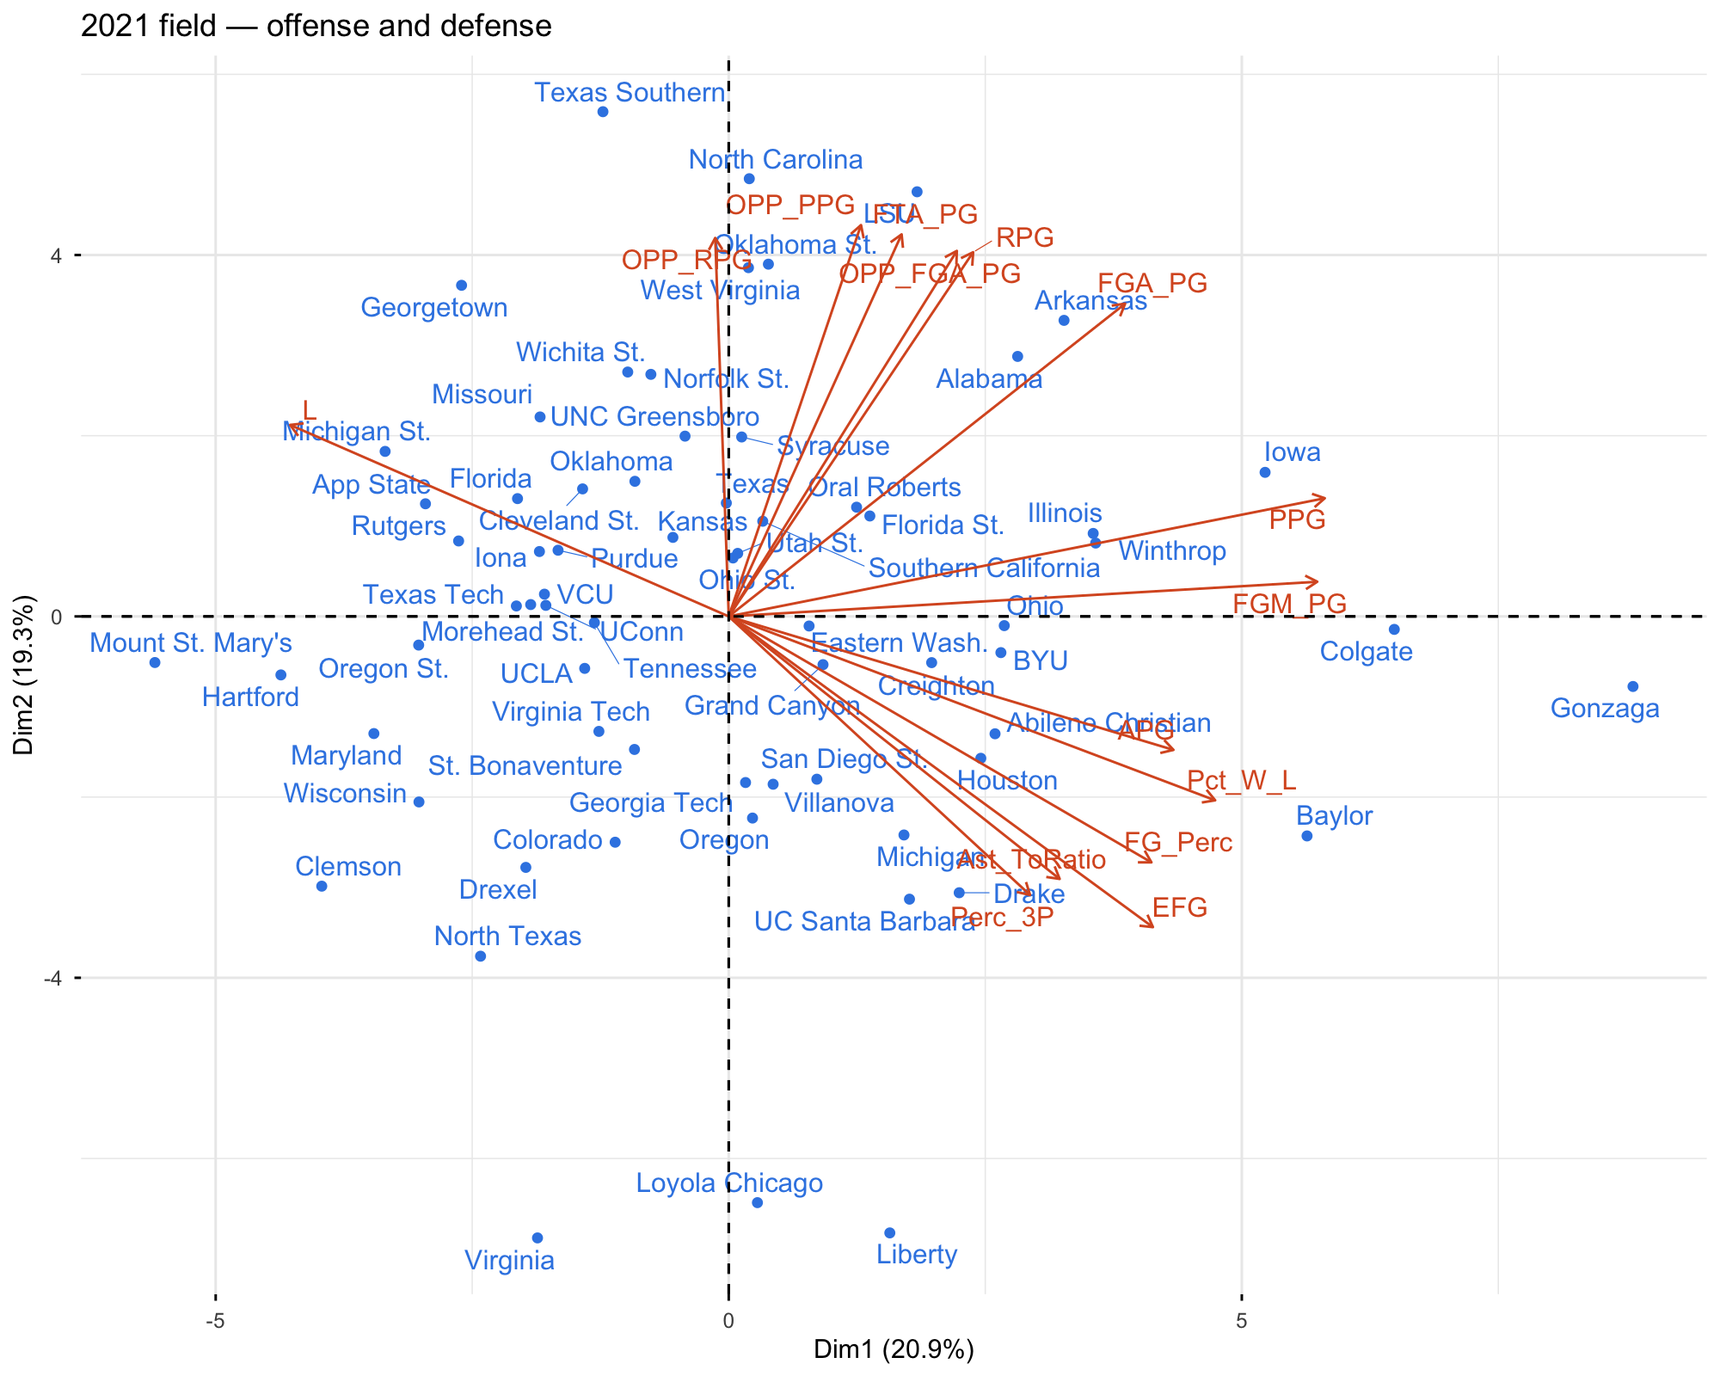
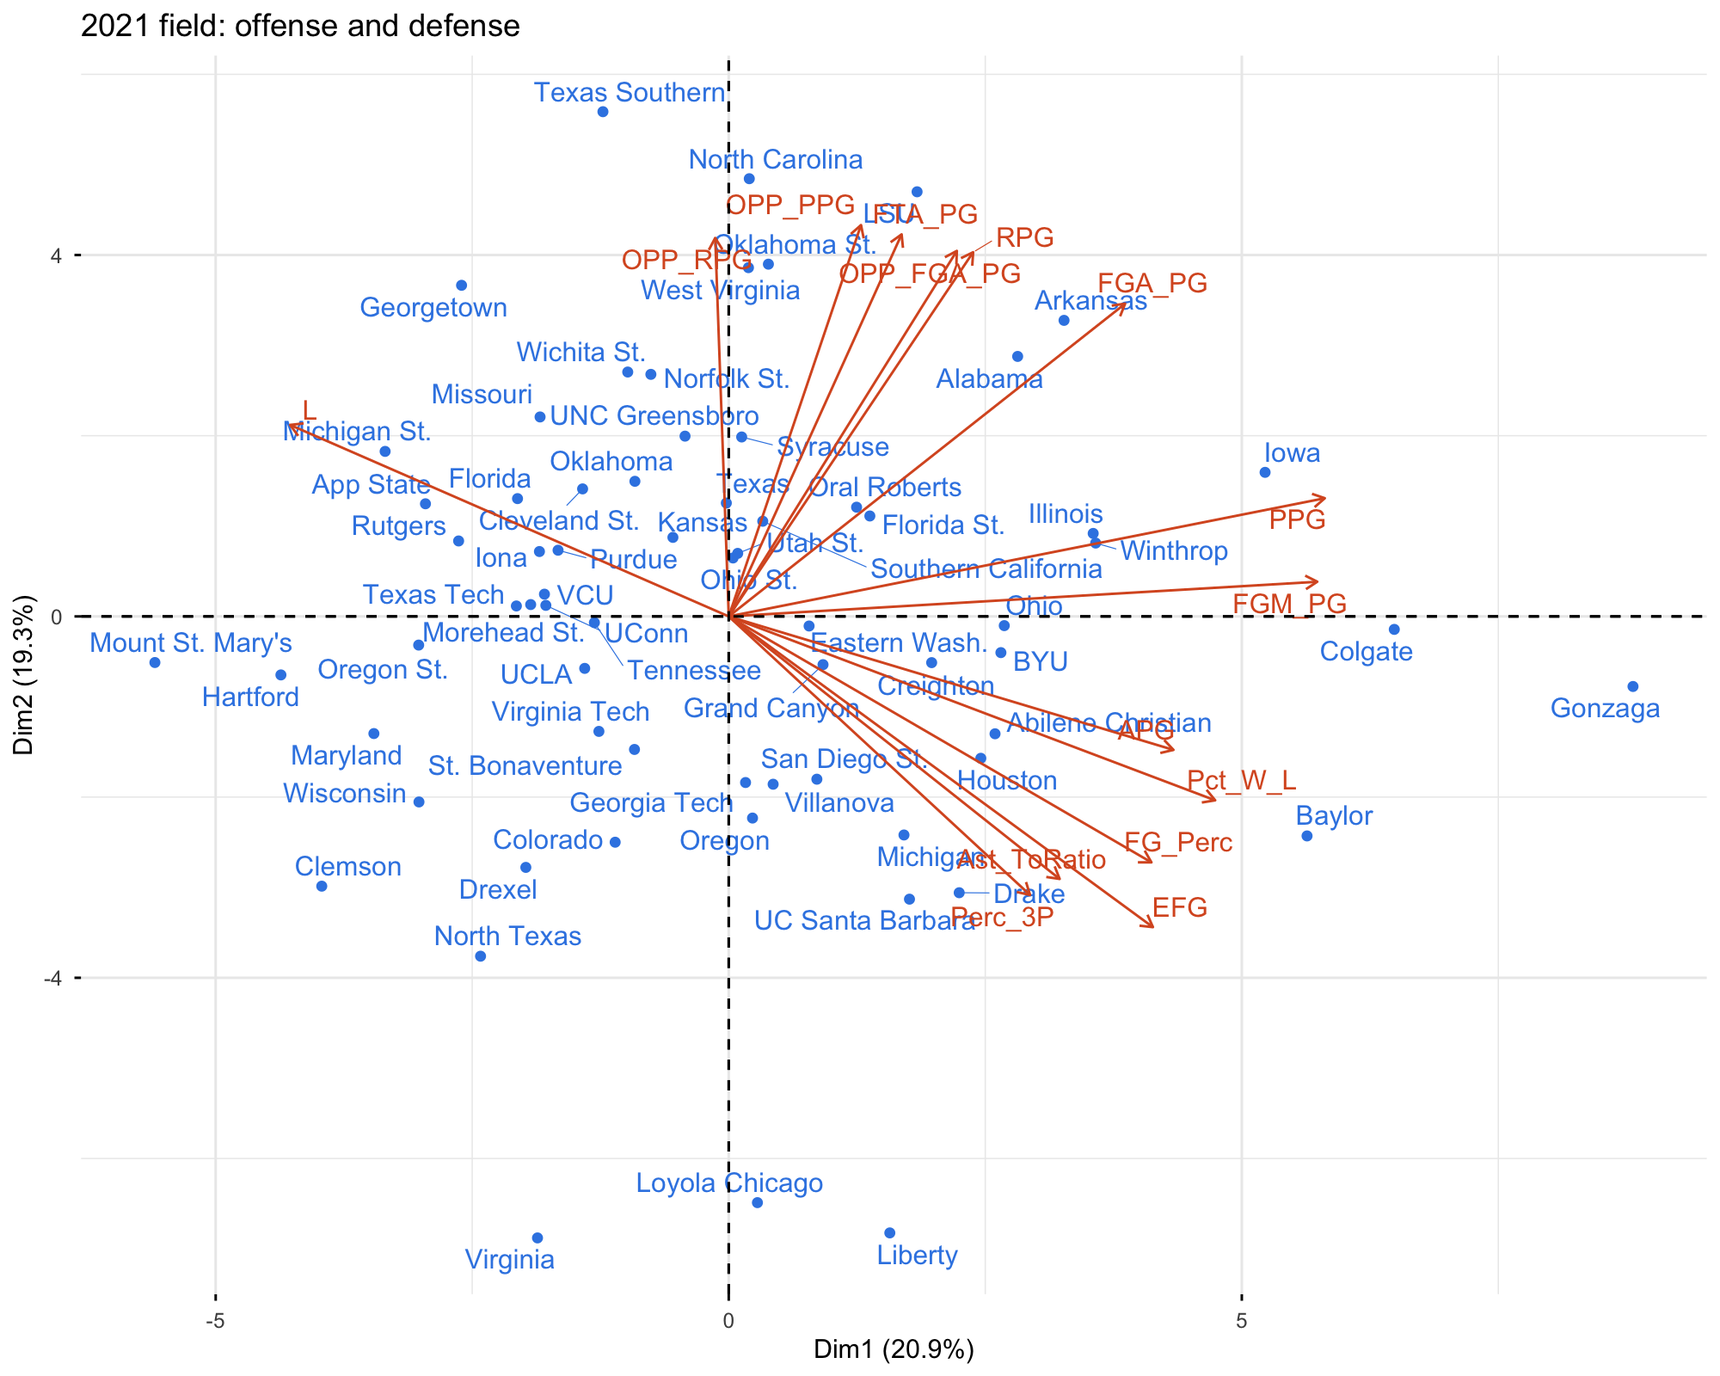
Mise à jour du post-mortem et des analyses PCA pour clarifier les méthodes et les résultats, y compris des corrections de bugs et des améliorations de la documentation.

diff --git a/POST_MORTEM.md b/POST_MORTEM.md
@@ -1,6 +1,6 @@
 # The 2021 Post-Mortem: I Read a Chart With My Eyes and Called It a Model
 
-*This was my first predictive model. 363 lines of R, seventeen spreadsheets, and a scatterplot I squinted at to decide who'd win basketball games. It went 39-27 and picked the wrong champion, but I never actually added that up — I just watched the tournament, enjoyed the hits, and moved on. Five years later I went back, wrote down the rule I'd been applying by eye, and scored every game. Here's what I found, including two bugs and one axis that was never measuring what I thought.*
+*This was my first predictive model. I built it in four days during my first year of a statistics degree, having just started programming in R, at a point where PCA was brand new to me and felt like a superpower. 363 lines, seventeen spreadsheets, and a scatterplot I read by eye. Five years later I went back, wrote the rule down as actual code, and scored it against every game. Here's what I found, including two bugs and one axis that was never measuring what I thought it was.*
 
 ---
 
@@ -22,7 +22,11 @@ My model was nothing but raw per-game averages. It still had the two teams that 
 
 ## The Method, Written Down at Last
 
-The 2021 script ran a PCA over 33 team stats — shooting, rebounds, assists, turnovers, fouls, opponent equivalents, win-loss record — and plotted the field on the first two components. My rule, which existed entirely in my head, was that whoever sat further toward the good corner won.
+The 2021 script ran a PCA over 33 team stats: shooting, rebounds, assists, turnovers, fouls, opponent equivalents, win-loss record. Then it plotted the field on the first two components.
+
+PCA gives you coordinates and no labels, so naming the axes was on me. I did it by finding teams I already understood. Gonzaga sat far out on the first axis, and Gonzaga was the most offense-oriented team in the country. Houston anchored the second, and Houston was a Kelvin Sampson team, which meant defense above everything. Axis one is offense, axis two is defense. Rebuilding it years later, that read holds up remarkably well: Gonzaga finished first of 68 in both points per game and effective field goal percentage, and Houston finished first of 68 in opponent field goal percentage. I anchored on the actual best offense and the actual best defense in the field.
+
+My rule, which existed entirely in my head, was that whoever sat further toward the good corner won.
 
 Written out, it's one line:
 
@@ -30,7 +34,9 @@ Written out, it's one line:
 ODI = PC1 + PC2        (both axes flipped so bigger = better)
 ```
 
-Equal weight on both, because that's what your eye does with a chart. Nothing tuned, nothing calibrated, no backtest. Same model that filled out my bracket.
+Equal weight on both, because that's what your eye does with a chart. Nothing tuned, nothing calibrated, no backtest.
+
+**An important caveat before the numbers.** This rule is a reconstruction, and every score below belongs to the reconstruction rather than to the bracket I actually submitted. That one went up on CBS and it was a blend: the chart, plus a week of reading about these teams, plus who was hot coming into the tournament, plus who was hurt. The analytics were the new thing I wanted to test, not the entire method. What follows is what the rule does on its own, cleanly, against all 66 games.
 
 Run against all 66 games actually played:
 
@@ -45,7 +51,7 @@ Run against all 66 games actually played:
 | Championship | 0 / 1 |
 | **Overall** | **39 / 66 (59.1%)** |
 
-*(66, not 67 — Oregon's opener against VCU was called off when VCU withdrew under COVID protocols.)*
+*(66, not 67. Oregon's opener against VCU was called off when VCU withdrew under COVID protocols.)*
 
 ---
 
@@ -57,7 +63,7 @@ Run against all 66 games actually played:
 | :--- | :--- | :--- | :---: |
 | Champion | Gonzaga, 1st on the board | Baylor | ✗ |
 | Both finalists spotted early | Gonzaga 1st, Baylor 3rd of 68 | Gonzaga vs. Baylor | ✓ |
-| Final Four games | 2 of 2 | — | ✓ |
+| Final Four games | 2 of 2 | both correct | ✓ |
 | Oral Roberts (15) over Ohio State (2) | Called | Oral Roberts 75-72 OT | ✓ |
 | Abilene Christian (14) over Texas (3) | Called | Abilene Christian 53-52 | ✓ |
 | Loyola Chicago (8) over Illinois (1) | Called | Loyola Chicago 71-58 | ✓ |
@@ -74,7 +80,7 @@ Just picking the better seed every time goes **42 of 61**. My model went **36 of
 
 A room full of people with a whiteboard beat my computer by six games.
 
-That's the honest headline, and producing it took writing this document, because in 2021 I never scored the thing. There was no accuracy number for this model until now.
+That's the honest headline for the rule taken on its own. It's also the number that never existed until I wrote this document, because in 2021 the analysis was one input among several and nobody was keeping score of it separately.
 
 ---
 
@@ -82,7 +88,7 @@ That's the honest headline, and producing it took writing this document, because
 
 ### Gonzaga: right about the team, wrong about the trophy
 
-Gonzaga topped my board by a distance — 9.59 to Baylor's 8.07, with the rest of the field well back. That wasn't noise. Their 2021 offense was one of the best in modern college basketball: 61.0% effective field goal percentage, first in the field by three full points.
+Gonzaga topped my board by a distance, 9.59 to Baylor's 8.07, with the rest of the field well back. That wasn't noise. Their 2021 offense was one of the best in modern college basketball: 61.0% effective field goal percentage, first in the field by two and a half points.
 
 They walked into the final 31-0.
 
@@ -90,25 +96,25 @@ My model made them a favourite by 1.52 points of ODI. For scale, it had Gonzaga 
 
 Baylor won by sixteen. It stopped being a game around the eight-minute mark of the first half.
 
-The mistake wasn't liking Gonzaga — everybody liked Gonzaga. The mistake was building something that couldn't say *this one's close*.
+The mistake wasn't liking Gonzaga; everybody liked Gonzaga. The mistake was building something that couldn't say *this one's close*.
 
 ### Oral Roberts: the bug that paid
 
 A 15-seed beats a 2-seed about once every four years. Oral Roberts did it in overtime, then beat Florida, then lost to Arkansas by two in the Sweet 16 and nearly made the Elite Eight.
 
-I called both wins. Not because of any insight — because Oral Roberts scored a pile of points in the Summit League, and my model had never heard of the Summit League.
+I called both wins. Not because of any insight, but because Oral Roberts scored a pile of points in the Summit League and my model had never heard of the Summit League.
 
 That's the mid-major problem in one sentence, and it cuts both ways. My top fifteen included Liberty (13-seed) at second overall, Colgate (14) at fifth, Drake (11) at sixth, UC Santa Barbara (12) at eighth, Abilene Christian (14) at eleventh, Ohio (13) at fourteenth, and Winthrop (12) at fifteenth. Seven of the top fifteen were seeded eleventh or worse.
 
 Illinois, a 1-seed, came in seventeenth.
 
-Ranking a 13-seed second in America isn't a small calibration issue. It's the model announcing that it has no idea who anybody played. Most years that wrecks your bracket. In 2021 — fourteen upsets, mid-majors everywhere — it bought me nine correct upset calls including the two biggest of the first round. The flaw and the highlight reel came from the same place.
+Ranking a 13-seed second in America isn't a small calibration issue. It's the model announcing that it has no idea who anybody played. Most years that wrecks your bracket. In 2021, with fourteen upsets and mid-majors everywhere, it bought me nine correct upset calls including the two biggest of the first round. The flaw and the highlight reel came from the same place.
 
 ### The Michigan-LSU footnote
 
 At the very bottom of the original script, after the analysis ends, sit six orphaned lines pulling shooting numbers for Michigan and LSU.
 
-I assumed for years that was debugging junk. It isn't. Michigan played LSU in the round of 32 on March 22, 2021. That's me the night before a real game, pulling two teams up side by side and comparing them by hand — the exact operation this rebuild turns into a function.
+They look like leftover junk until you check the schedule. Michigan played LSU in the round of 32 on March 22, 2021. Those lines are the process in action: two teams pulled up side by side and compared by hand the night before a real game, which is the exact operation this rebuild turns into a function.
 
 Run properly, the model gives Michigan a 6.99 edge. Michigan won 86-78.
 
@@ -126,7 +132,7 @@ Run properly, the model gives Michigan a 6.99 edge. Michigan won 86-78.
 | Knowing who anybody played | F | A 13-seed finished second in the country. |
 | Reproducibility | F | Nothing saved. No plot, no table, no score. |
 
-On that C: when the ODI edge cleared 4 points, the model went 22 of 29 (75.9%). On genuine coin flips under 1 point it went 5 of 10, which is exactly right. But the 1-to-2 band went 3 of 10 — worse than random. It knew a blowout and it knew a toss-up, and everything between was noise with a number attached.
+On that C: when the ODI edge cleared 4 points, the model went 22 of 29 (75.9%). On genuine coin flips under 1 point it went 5 of 10, which is exactly right. But the 1-to-2 band went 3 of 10, worse than random. It knew a blowout and it knew a toss-up, and everything between was noise with a number attached.
 
 ---
 
@@ -134,37 +140,39 @@ On that C: when the ODI edge cleared 4 points, the model went 22 of 29 (75.9%). 
 
 **The corrplot bug** was cosmetic. The defensive correlation plot handed one matrix five columns and the other four, so the significance stars landed on the wrong cells. R warned me. I didn't read it.
 
-**The effective field goal bug** was not cosmetic. The line computing EFG did arithmetic across two data frames that had been filtered separately and were no longer in the same row order — `merge()` had quietly re-sorted one of them alphabetically. The result: **64 of the 68 teams had another team's three-point total baked into their shooting efficiency.** Mean error 1.5 percentage points, worst case 7.8.
+**The effective field goal bug** was not cosmetic. The line computing EFG did arithmetic across two data frames that had been filtered separately and were no longer in the same row order, because `merge()` had quietly re-sorted one of them alphabetically. The result: **64 of the 68 teams had another team's three-point total baked into their shooting efficiency.** Mean error 1.5 percentage points, worst case 7.8.
 
 Gonzaga's real EFG is 61.0%. My script had them at 65.0%.
 
-That number should have stopped me cold — 65% would have been a program-record, era-defining figure, and one look at the column would have caught it. But I never printed the column. Nothing in that script wrote anything to disk, so nothing was ever reviewed. Every result lived in the RStudio plot pane until I closed the window.
+That number should have stopped me cold. A 65% would have been a program-record, era-defining figure, and one look at the column would have caught it. But I never printed the column. Nothing in that script wrote anything to disk, so nothing was ever reviewed. Every result lived in the RStudio plot pane until I closed the window.
 
 ---
 
 ## What I Didn't Have Yet
 
-For years I've said the missing piece was KenPom and strength of schedule. True — and also the symptom rather than the disease. Rebuilding this and actually checking what the axes contained turned up something better.
+For years I've said the missing piece was KenPom and strength of schedule. That's true, and it's also the symptom rather than the disease. Rebuilding this and actually checking what the axes contained turned up something better.
 
 **PC1 (20.9% of variance) is offense, exactly as advertised.** Correlates with points per game at +0.94, effective field goal percentage at +0.67, win percentage at +0.77. I read that axis correctly.
 
-**PC2 (19.3%) is not defense.** I labelled it defense for five years. It correlates with opponent points per game at +0.70 — which is what fooled me — and with *opponent field goal percentage* at **−0.01**. Zero. It has no relationship whatsoever with whether opponents actually shoot well against you.
+**PC2 (19.3%) is not defense.** I labelled it defense for five years. It correlates with opponent points per game at +0.70, which is what fooled me, and with *opponent field goal percentage* at **−0.01**. Zero. It has no relationship whatsoever with whether opponents actually shoot well against you.
 
-PC2 was measuring tempo. High PC2 means possessions: rebounds at both ends, free throws, shots taken and allowed, and lower efficiency. Low PC2 means a grind. The two most extreme low-PC2 teams in the field are Virginia and Loyola Chicago, which is about as on-the-nose as basketball gets — those were the two most deliberate, defense-first programs in the country that season.
+PC2 was measuring tempo. High PC2 means possessions: rebounds at both ends, free throws, shots taken and allowed, and lower efficiency. Low PC2 means a grind. The two most extreme low-PC2 teams in the field are Virginia and Loyola Chicago, which is about as on-the-nose as basketball gets. Those were the two most deliberate, defense-first programs in the country that season.
+
+And this is why it stayed hidden. Houston, the team I used to name that axis, really was the best defense in the field. Houston was also a Kelvin Sampson team, which meant it played slowly by design. Elite defense and slow tempo in the same team, landing in the same place on the chart. My anchor sat exactly where a defense axis and a tempo axis would both put it, so it could never tell me which one I was looking at. A fast team with a great defense, or a slow team with a bad one, would have blown the interpretation apart immediately.
 
 So the axis was picking up something real. It just wasn't defensive quality; it was pace. Slow teams give up fewer points whether they defend or not.
 
-Actual defensive quality was living on **PC3**, correlated with opponent field goal percentage at +0.62 — the component I computed and never plotted.
+Actual defensive quality was living on **PC3**, correlated with opponent field goal percentage at +0.62. That's the component I computed and never plotted.
 
 Stated properly, this is what KenPom was for. Adjusted efficiency is measured per 100 possessions and corrected for opponent, which kills both problems with one change: the tempo confusion in PC2, and the strength-of-schedule inflation that put Liberty second in the country. I could feel both holes in 2021 and couldn't name either one.
 
-There's a third thing the rebuild surfaced, and it's the one I'd have most wanted to know at the time. The correlation plot with wins and losses as columns — the one the original script drew and I never really read — says that shooting stats connect to winning about twice as strongly as anything defensive. Field goals made per game runs +0.47 against wins and −0.56 against losses. Opponent field goal percentage manages −0.26 against win percentage. My model weighted offense and defense equally while the data was telling me, in two columns, that it understood one far better than the other.
+There's a third thing the rebuild surfaced, and it's the one I'd have most wanted to know at the time. The correlation plot with wins and losses as columns, the one the original script drew and I never really read, says that shooting stats connect to winning about twice as strongly as anything defensive. Field goals made per game runs +0.47 against wins and −0.56 against losses. Opponent field goal percentage manages −0.26 against win percentage. My model weighted offense and defense equally while the data was telling me, in two columns, that it understood one far better than the other.
 
 ---
 
-## Lessons That Became 2024 and 2026
+## Lessons That Became 2026
 
-1. **Adjust for pace and opponent, or your axes will lie to you.** The 2024 rebuild brought in KenPom adjusted efficiency for exactly this reason. The 2026 model is built on tempo-free features from the first line.
+1. **Adjust for pace and opponent, or your axes will lie to you.** This is the single biggest reason the 2026 model runs on KenPom and Barttorvik efficiency data rather than raw per-game averages.
 
 2. **Score your predictions.** Five years without a number. The 2026 project has a backtester, a game-by-game ledger, and a post-mortem published the week the tournament ended.
 
@@ -191,7 +199,7 @@ There's a third thing the rebuild surfaced, and it's the one I'd have most wante
 | **Pipeline** | `R/00_setup.R` → `01_load_stats.R` → `02_pca_analysis.R` → `03_bracket_picks.R` |
 | **Original** | [`archives/NCAA_2021_original.R`](./archives/NCAA_2021_original.R), untouched |
 
-One thing I deliberately left alone: win-loss record (`W`, `L`, `Pct_W_L`) is still among the PCA inputs, exactly as it was in 2021. Feeding wins into a model whose job is predicting wins is circular, and it inflates how good PC1 looks — `Pct_W_L` loads on it at +0.77. Taking it out would make this a different model than the one that filled out my bracket, so it stays. It's on the list of things 2024 fixed.
+One thing I deliberately left alone: win-loss record (`W`, `L`, `Pct_W_L`) is still among the PCA inputs, exactly as it was in 2021. Feeding wins into a model whose job is predicting wins is circular, and it inflates how good PC1 looks; `Pct_W_L` loads on it at +0.77. Taking it out would make this a different analysis than the one I actually ran in 2021, so it stays. It's on the list of things later versions fixed.
 
 ---
 

diff --git a/README.md b/README.md
@@ -1,14 +1,14 @@
 # March Madness 2021: Two Axes and a Scatterplot
 
-Before the ensemble and the 132,134 matchup probabilities, there was this: seventeen spreadsheets, one principal component analysis, and a chart I read with my eyeballs to pick winners. It was the first model I ever built. I never scored it. Five years later, I finally did.
+Before the ensemble and the 132,134 matchup probabilities, there was this: four days, seventeen spreadsheets, and a principal component analysis I had just learned to run. First year of a statistics degree, brand new to R, and convinced I was onto something. Five years later I wrote the rule down as code and finally scored it.
 
 **The full story, charts included, lives [here](https://cedpaul13.github.io/March_Madness_2021/).** English and French.
 
 Worth a click for:
 
 * Gonzaga and Baylor ranked first and third out of 68 teams, weeks before they met in the final
-* Nine correct upset calls, including Oral Roberts over Ohio State — the 15-over-2 that torched everyone's bracket
-* A final record that still lost to just picking the better seed, and the reason why
+* Nine correct upset calls, including the Oral Roberts 15-over-2 that torched everyone's bracket
+* A reconstruction of the rule that still loses to simply picking the better seed, and the reason why
 * An axis I called "defense" for five years that turns out to measure tempo
 
 ---
@@ -18,7 +18,7 @@ Worth a click for:
 * [Post-mortem: what those axes were actually made of](./POST_MORTEM.md)
 * [The original 2021 script, untouched](./archives/NCAA_2021_original.R)
 * [Where the bracket results came from](./data/bracket/README.md)
-* [March Madness 2026](https://cedpaul13.github.io/March_Madness_2026/) — where all of this ended up
+* [March Madness 2026](https://cedpaul13.github.io/March_Madness_2026/), where all of this ended up
 
 ---
 
